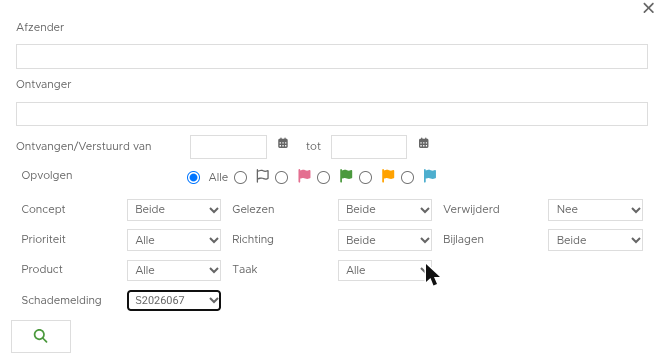
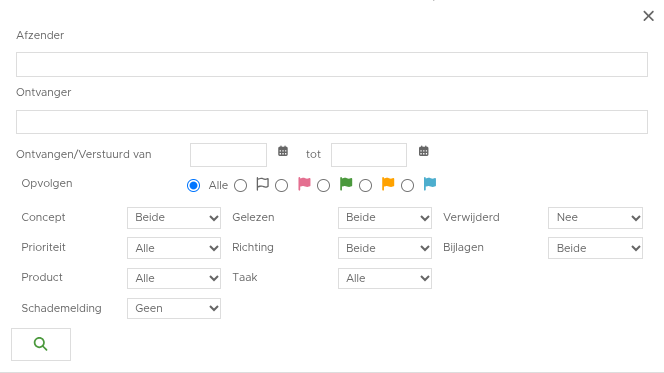
Nieuwe eBlinqx Connect-schermen: e-mail koppelen aan schademelding (namen en e-mailadressen afgedekt)
Claude-Session: https://claude.ai/code/session_01XDsUd3WRmaHFcaj4kC9FeL

diff --git a/kennisbank/e-mail-koppelen-aan-een-schademelding/index.html b/kennisbank/e-mail-koppelen-aan-een-schademelding/index.html
@@ -102,7 +102,7 @@
 <figure><a href="../../bronnen/vervanging/wp-content/uploads/2024/07/image-187.png"><img src="../../bronnen/vervanging/wp-content/uploads/2024/07/image-187.png" alt="" width="1873" height="428" loading="lazy"></a></figure>
 <p>Deze e-mails worden <strong>niet</strong> standaard getoond onder het tabblad Communicatie – E-mail op dossier- of productniveau. Je zult dan in het filter moeten aangeven dat je de e-mails gekoppeld aan de schademelding wilt zien.</p>
 <figure><a href="../../bronnen/vervanging/wp-content/uploads/2024/07/image-188.png"><img src="../../bronnen/vervanging/wp-content/uploads/2024/07/image-188.png" alt="" width="849" height="467" loading="lazy"></a></figure></div>
-      <section class="figs"><h2>Afbeeldingen bij dit artikel</h2><figure><a href="https://web.archive.org/web/20190717165834im_/http://support.fasterforward.nl/wp-content/uploads/2018/04/emailschademelding.png" target="_blank" rel="noopener"><img src="https://web.archive.org/web/20190717165834im_/http://support.fasterforward.nl/wp-content/uploads/2018/04/emailschademelding.png" alt="schademelding" loading="lazy" onerror="this.closest('figure').remove()"></a><figcaption>schademelding</figcaption></figure><figure><a href="https://web.archive.org/web/20190717165834im_/http://support.fasterforward.nl/wp-content/uploads/2018/04/schademelding.png" target="_blank" rel="noopener"><img src="https://web.archive.org/web/20190717165834im_/http://support.fasterforward.nl/wp-content/uploads/2018/04/schademelding.png" alt="schademelding2" loading="lazy" onerror="this.closest('figure').remove()"></a><figcaption>schademelding2</figcaption></figure></section><div class="feedback"><span class="fb-q">Was deze informatie nuttig?</span><button type="button" data-fb="ja">Ja</button><button type="button" data-fb="nee">Nee</button><p class="fb-out" role="status" hidden></p></div>
+      <section class="figs nu"><h2>Zo ziet het er nu uit in eBlinqx Connect</h2><figure><a href="../../bronnen/eblinqx-artikel/e-mail-koppelen-aan-een-schademelding/e-mail-aan-product-koppelen-popup.png" target="_blank" rel="noopener"><img src="../../bronnen/eblinqx-artikel/e-mail-koppelen-aan-een-schademelding/e-mail-aan-product-koppelen-popup.png" alt="Verwante maar niet identieke koppel-functie — de pop-up &quot;E-mail aan product koppelen&quot; (bereikbaar via het koppelicoon in de e-mail-toolbar), met de productenlijst van het dossier inclusief meerdere …" loading="lazy"></a><figcaption>Verwante maar niet identieke koppel-functie — de pop-up &quot;E-mail aan product koppelen&quot; (bereikbaar via het koppelicoon in de e-mail-toolbar), met de productenlijst van het dossier inclusief meerdere …</figcaption></figure><figure><a href="../../bronnen/eblinqx-artikel/e-mail-koppelen-aan-een-schademelding/schademelding-communicatie-email-tabblad-leeg.png" target="_blank" rel="noopener"><img src="../../bronnen/eblinqx-artikel/e-mail-koppelen-aan-een-schademelding/schademelding-communicatie-email-tabblad-leeg.png" alt="Schademelding communicatie email tabblad leeg" loading="lazy"></a><figcaption>Schademelding communicatie email tabblad leeg</figcaption></figure><figure><a href="../../bronnen/eblinqx-artikel/e-mail-koppelen-aan-een-schademelding/schademelding-s2026067-emaillijst-met-vlammetje.png" target="_blank" rel="noopener"><img src="../../bronnen/eblinqx-artikel/e-mail-koppelen-aan-een-schademelding/schademelding-s2026067-emaillijst-met-vlammetje.png" alt="Tabblad Schademelding &gt; Communicatie &gt; E-mail van een BESTAANDE schademelding (S2026067) in dossier 2752, met daadwerkelijk gekoppelde e-mails (o.a" loading="lazy"></a><figcaption>Tabblad Schademelding &gt; Communicatie &gt; E-mail van een BESTAANDE schademelding (S2026067) in dossier 2752, met daadwerkelijk gekoppelde e-mails (o.a</figcaption></figure></section><section class="figs"><h2>Afbeeldingen bij dit artikel</h2><figure><a href="https://web.archive.org/web/20190717165834im_/http://support.fasterforward.nl/wp-content/uploads/2018/04/emailschademelding.png" target="_blank" rel="noopener"><img src="https://web.archive.org/web/20190717165834im_/http://support.fasterforward.nl/wp-content/uploads/2018/04/emailschademelding.png" alt="schademelding" loading="lazy" onerror="this.closest('figure').remove()"></a><figcaption>schademelding</figcaption></figure><figure><a href="https://web.archive.org/web/20190717165834im_/http://support.fasterforward.nl/wp-content/uploads/2018/04/schademelding.png" target="_blank" rel="noopener"><img src="https://web.archive.org/web/20190717165834im_/http://support.fasterforward.nl/wp-content/uploads/2018/04/schademelding.png" alt="schademelding2" loading="lazy" onerror="this.closest('figure').remove()"></a><figcaption>schademelding2</figcaption></figure></section><div class="feedback"><span class="fb-q">Was deze informatie nuttig?</span><button type="button" data-fb="ja">Ja</button><button type="button" data-fb="nee">Nee</button><p class="fb-out" role="status" hidden></p></div>
       
       
     </article>
